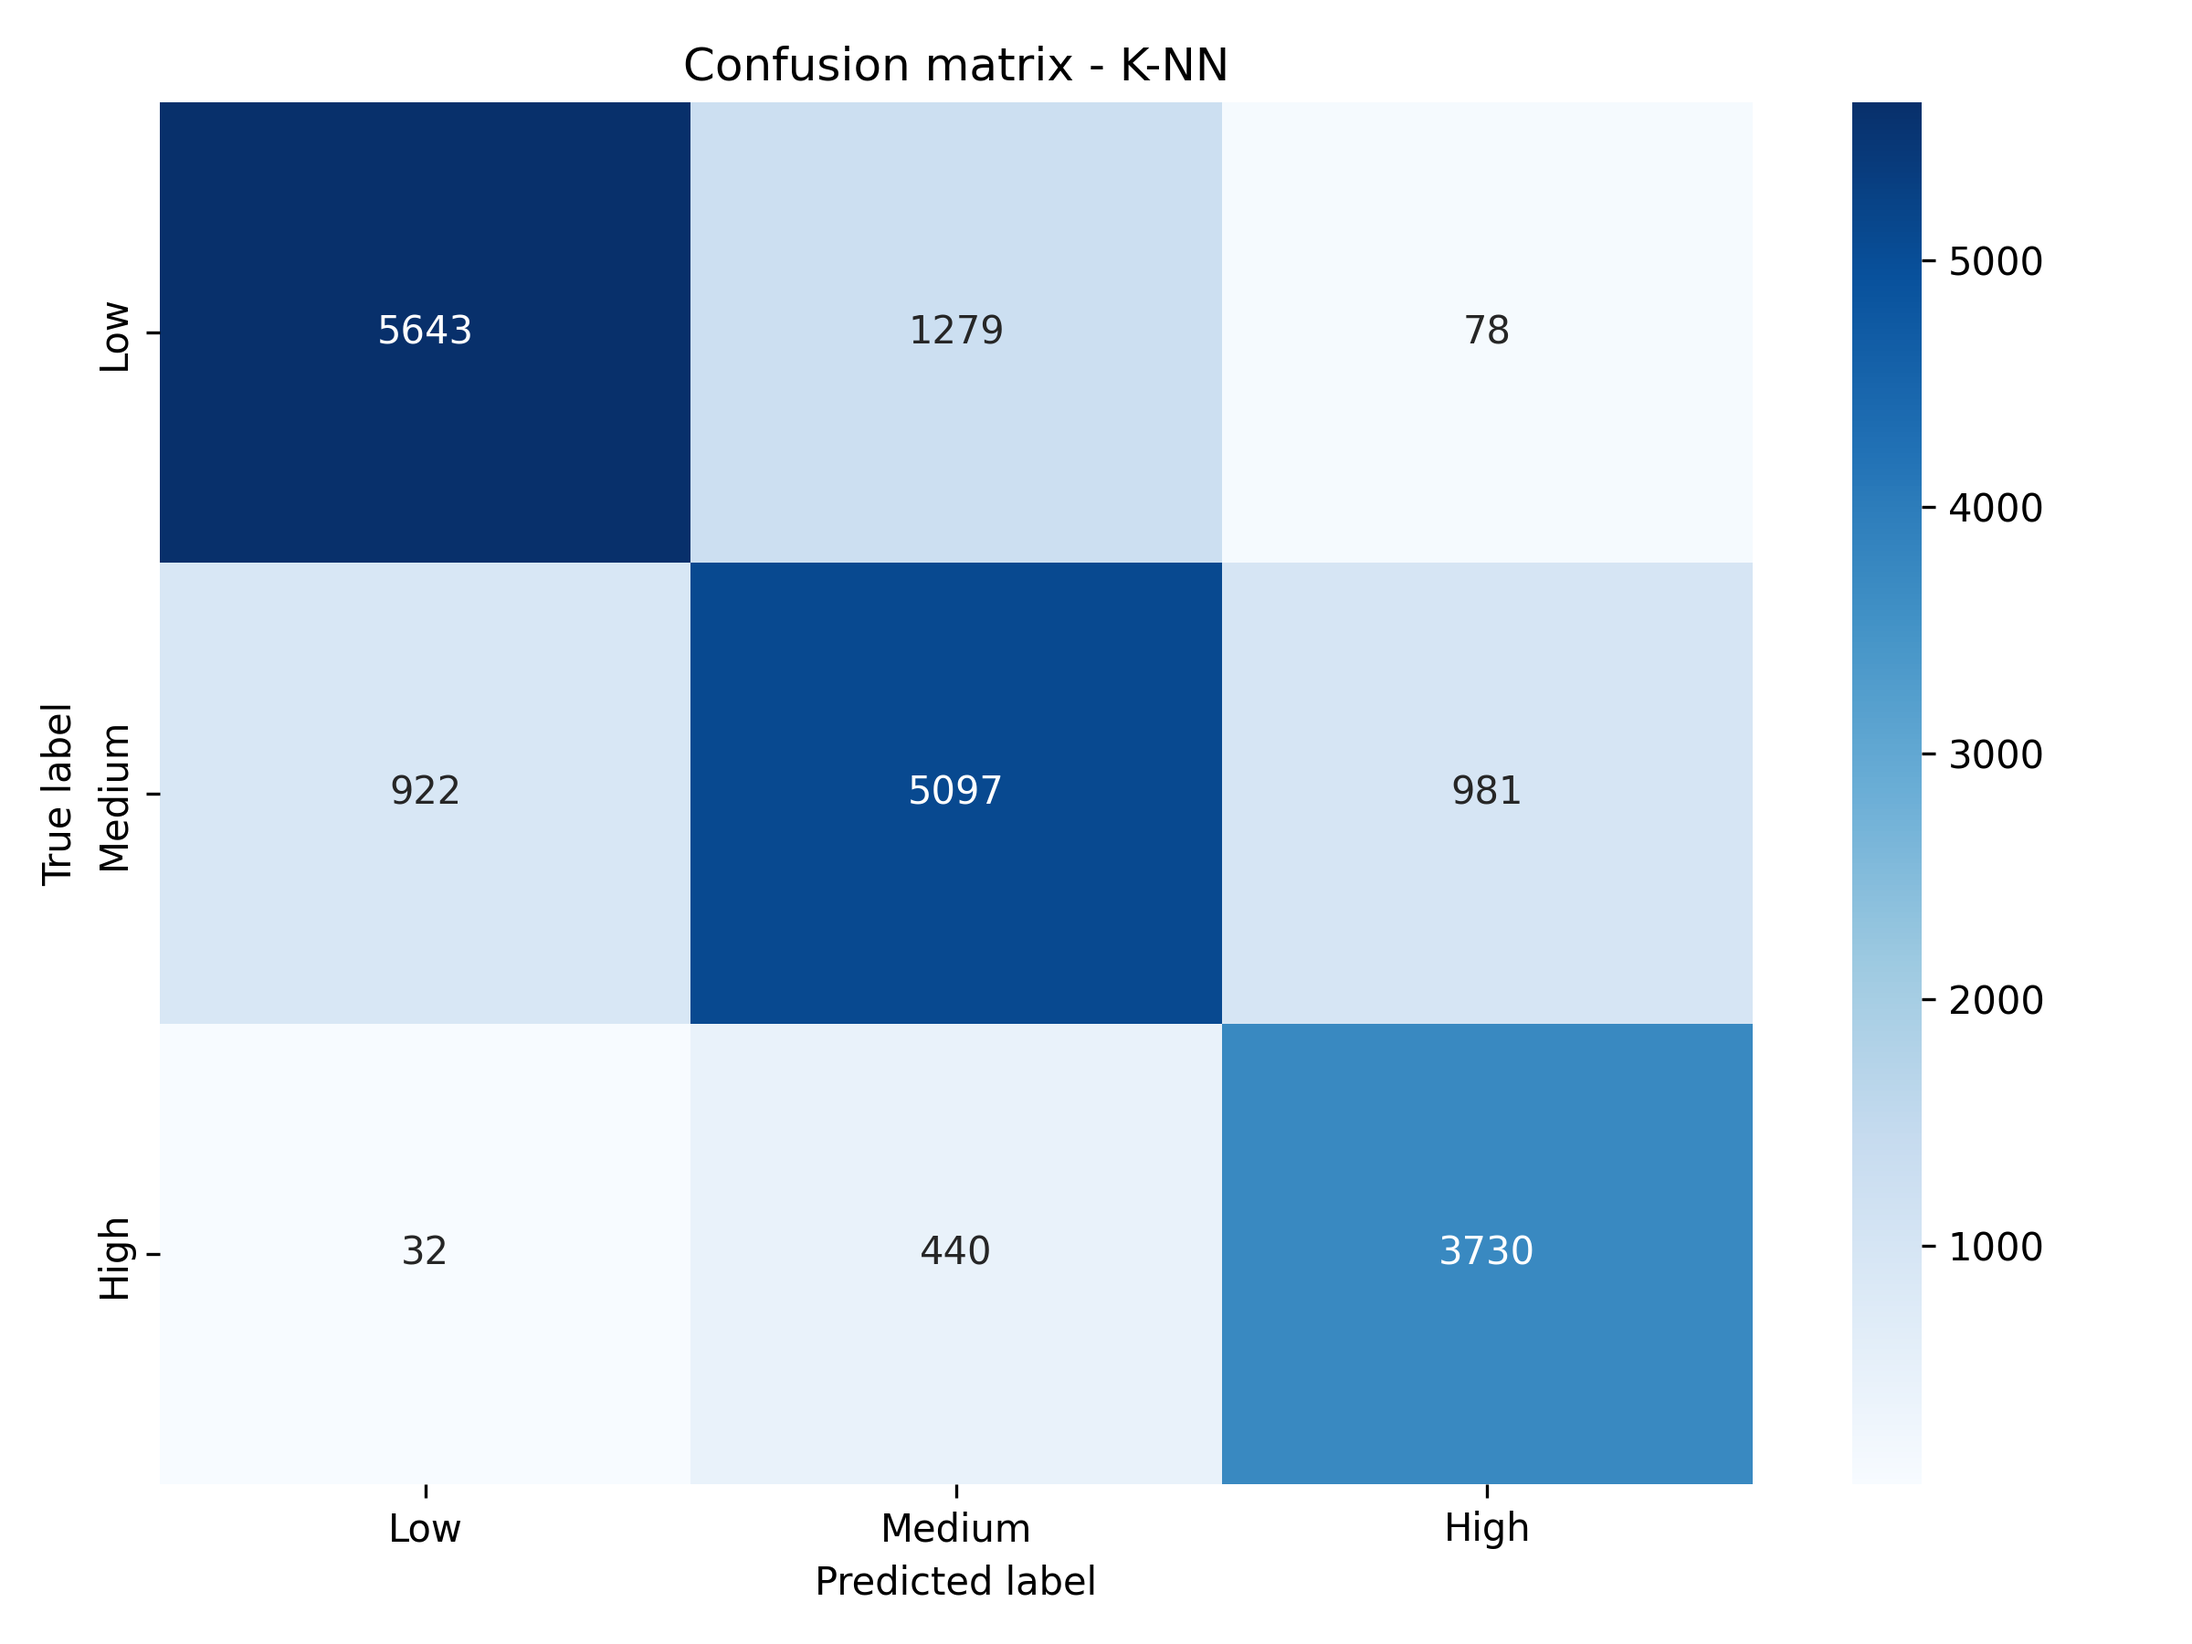
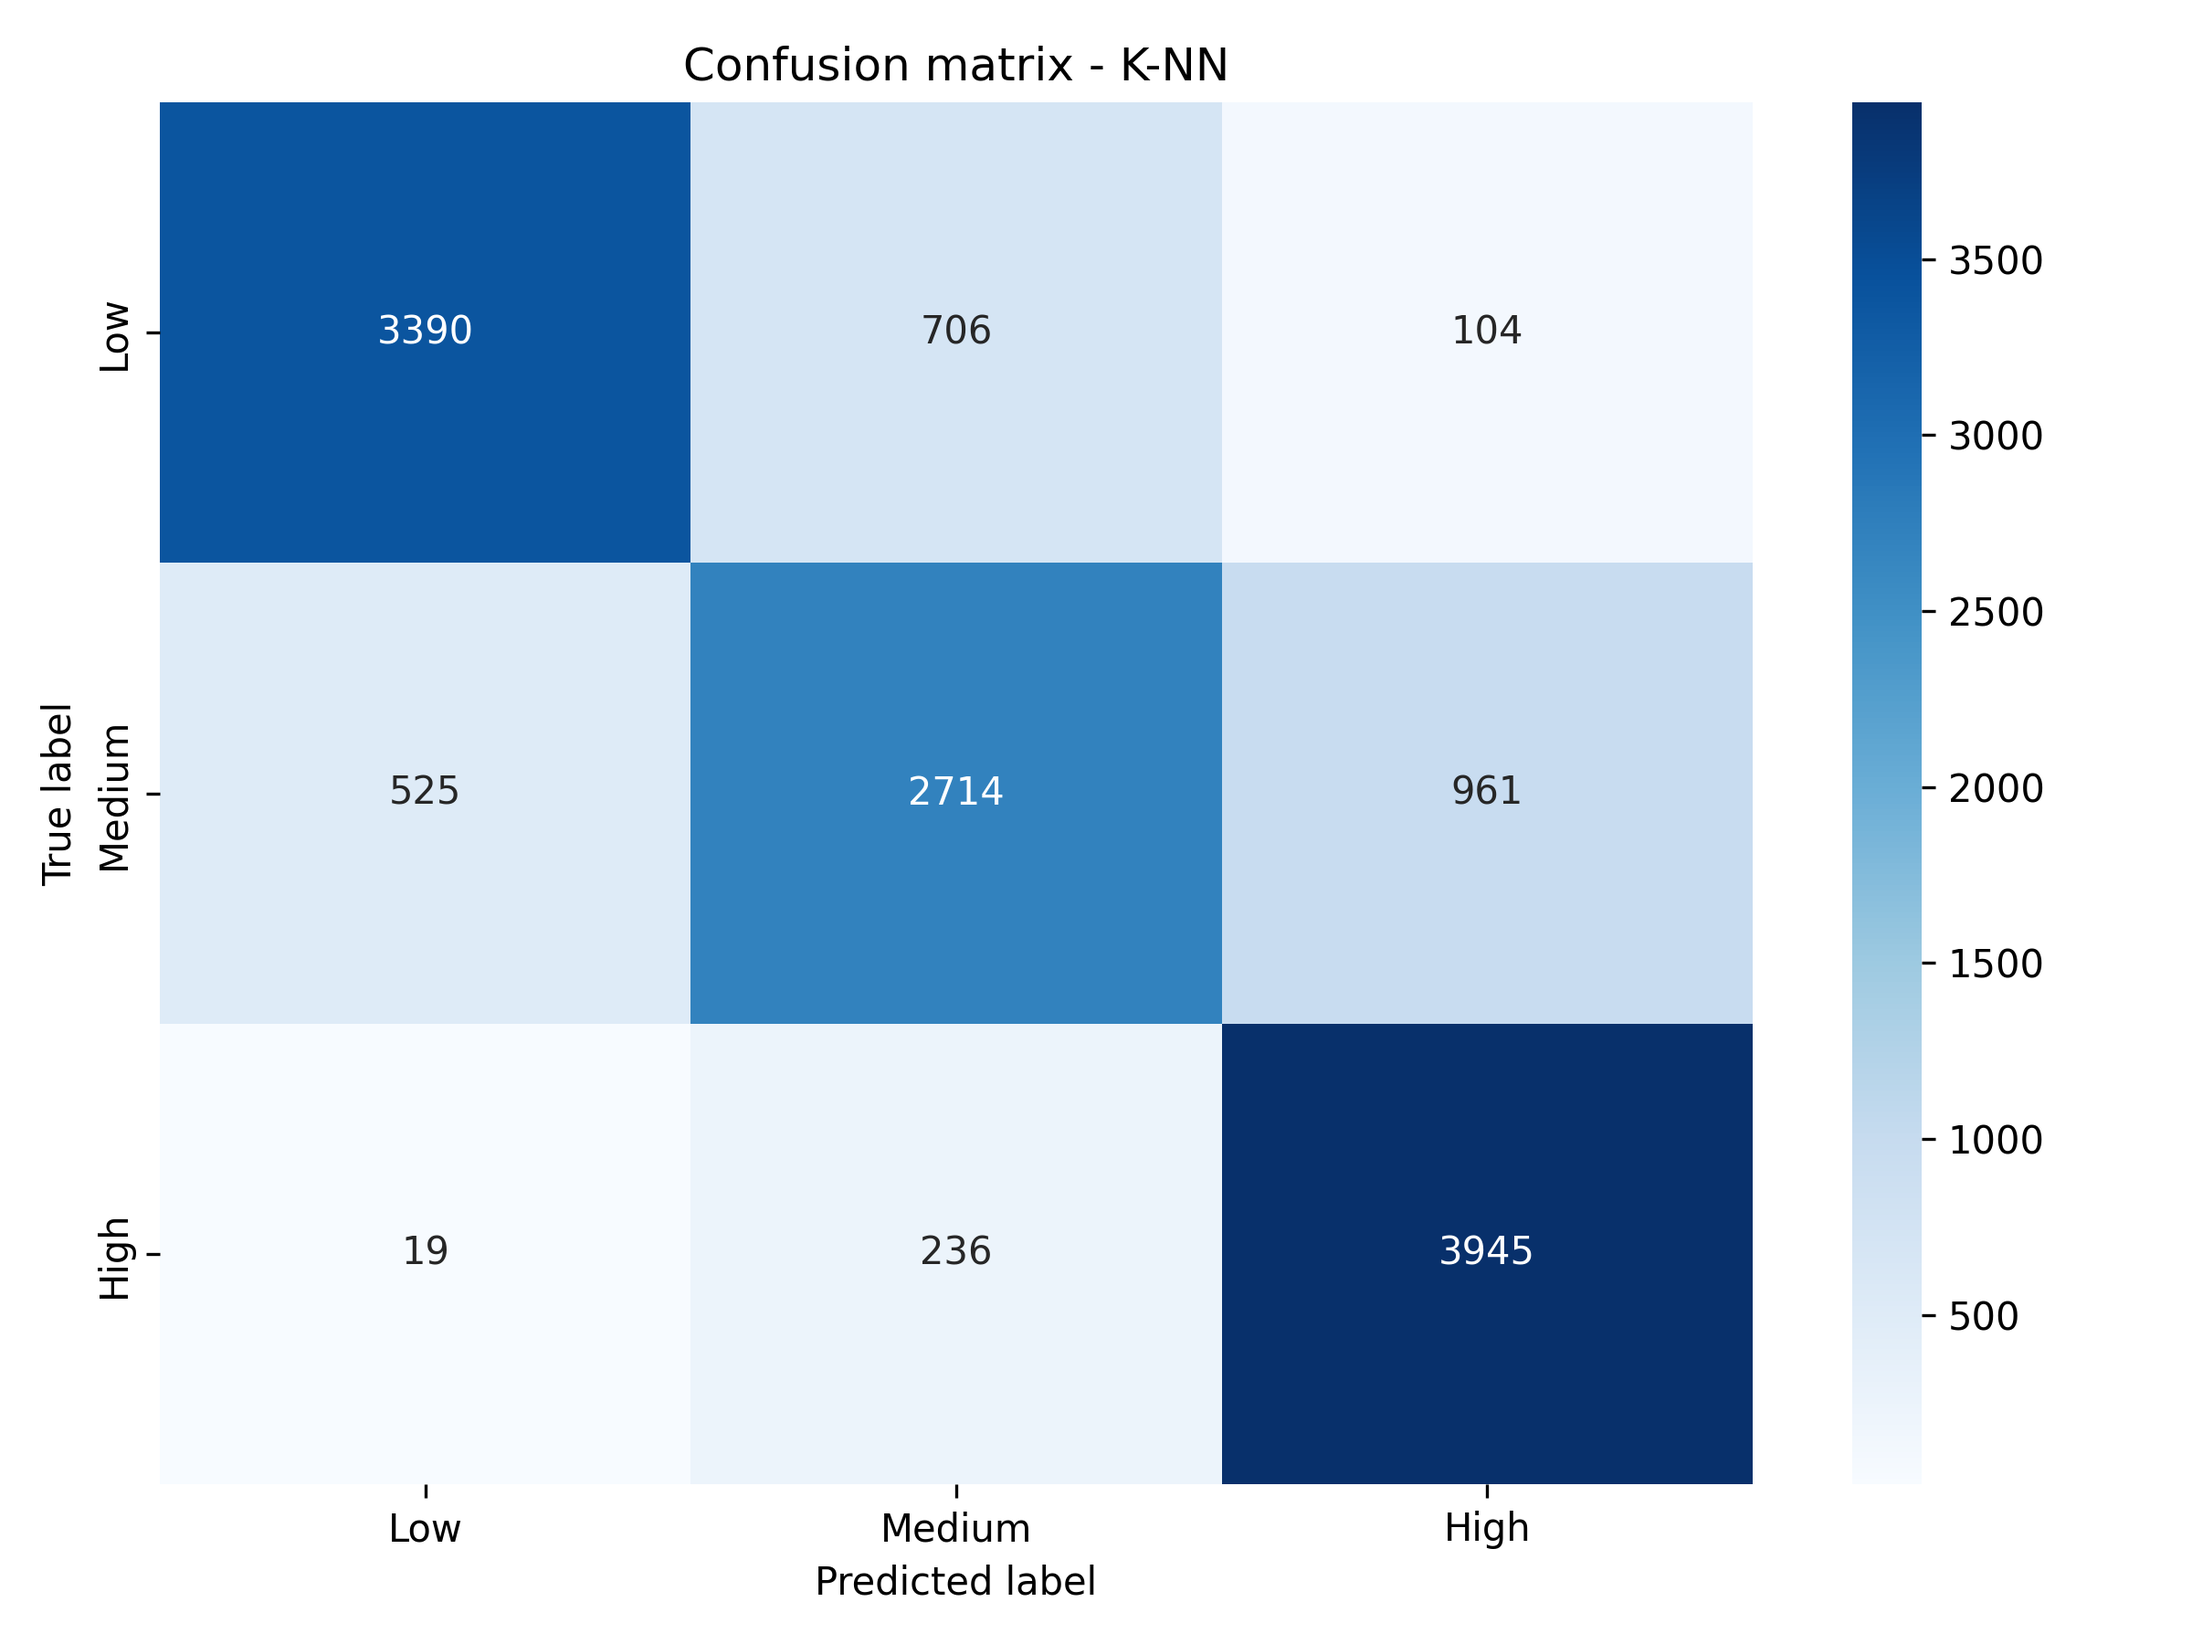
Tune LinearSVC hyperparameters and balance classes
- Expand GridSearch parameter range for LinearSVC and K value for K-NN
- Print the best configuration found by the search.
- Implement class balancing (1:1:1 ratio) for training.
- Add tracking and analysis for all training results.

diff --git a/src/models/models.py b/src/models/models.py
@@ -8,25 +8,38 @@ def run_knn(X_train, y_train, bypass=False):
         return None, None
     knn = KNeighborsClassifier()
 
-    param_grid = {'n_neighbors': [3, 5, 7]}
+    param_grid = {'n_neighbors': [3, 5, 7, 9, 11]}
 
     grid_search = GridSearchCV(knn, param_grid, cv=3, scoring='f1_macro', n_jobs=-1, verbose=3)
     grid_search.fit(X_train, y_train)
 
+    # Print best model parameters
+    print(f"\n >>> BEST configuration K-NN: {grid_search.best_params_}")
+    print(f" >>> Average score in Cross-Validation (Macro F1): {grid_search.best_score_:.4f}\n")
     return grid_search.best_estimator_, grid_search.cv_results_
 
 def run_svm(X_train, y_train, fast_mode=True):
     if fast_mode:
         svm = LinearSVC(C=1.0, dual=False, random_state=42, class_weight='balanced', max_iter=2000, verbose=True)
-        svm.fit(X_train, y_train)
-        return svm, ""
+        param_grid = {'C': [0.1, 1.0, 10.0]}
+
+        grid_search = GridSearchCV(svm, param_grid, cv=3, scoring='f1_macro', n_jobs=-1, verbose=3)
+        grid_search.fit(X_train, y_train)
+
+        # Print best model parameters
+        print(f"\n >>> BEST configuration LINEAR SVM: {grid_search.best_params_}")
+        print(f" >>> Average score in Cross-Validation (Macro F1): {grid_search.best_score_:.4f}\n")
+        return grid_search.best_estimator_, grid_search.cv_results_
     else:
-        svm = SVC(kernel='rbf', cache_size=1000)
-        param_grid = {'C': [1.0], 'gamma': ['scale']}
+        svm = SVC(kernel='rbf', cache_size=2000)
+        param_grid = {'C': [0.1, 1.0, 10.0], 
+                      'gamma': ['scale', 'auto']}
     
     grid_search = GridSearchCV(svm, param_grid, cv=3, scoring='f1_macro', n_jobs=-1, verbose=3)
     grid_search.fit(X_train, y_train)
-
+    # Print best model parameters
+    print(f"\n >>> BEST configuration RBF SVM: {grid_search.best_params_}")
+    print(f" >>> Average score in Cross-Validation (Macro F1): {grid_search.best_score_:.4f}\n")
     return grid_search.best_estimator_, grid_search.cv_results_
 
 

diff --git a/main.py b/main.py
@@ -9,7 +9,7 @@ def print_log(message):
     print(f"\n[{time}] {message}")
 
 def main():
-    USE_BIG_DATA = True
+    USE_BIG_DATA = False
 
     dataset_path = os.path.join('data', 'train.csv')
 
@@ -18,7 +18,7 @@ def main():
         return
 
     print_log("=== PHASE 1: Loading data & Feature Engineering??? ===")
-    sample_size = None if USE_BIG_DATA else 35000
+    sample_size = None if USE_BIG_DATA else 21000
     X, y = load_data(dataset_path, sample_size_per_class=sample_size)
     print_log(f"Dataset ready. Rows: {X.shape[0]}, Columns: {X.shape[1]}")
     # print("Colonne effettive in X:", X.columns.tolist())

diff --git a/src/metrics/evaluation.py b/src/metrics/evaluation.py
@@ -48,6 +48,8 @@ def plot_save_confusion_matrix(y_test, y_pred, model_name="Model", output_dir="r
     os.makedirs(output_dir, exist_ok=True)
     if big_data:
         filename = f"confusion_matrix_{model_name.lower().replace(' ', '_')}_UsedBigData.png"
+    else:
+        filename = f"confusion_matrix_{model_name.lower().replace(' ', '_')}.png"
     filepath = os.path.join(output_dir, filename)
     plt.savefig(filepath, dpi=300)
     plt.close()
